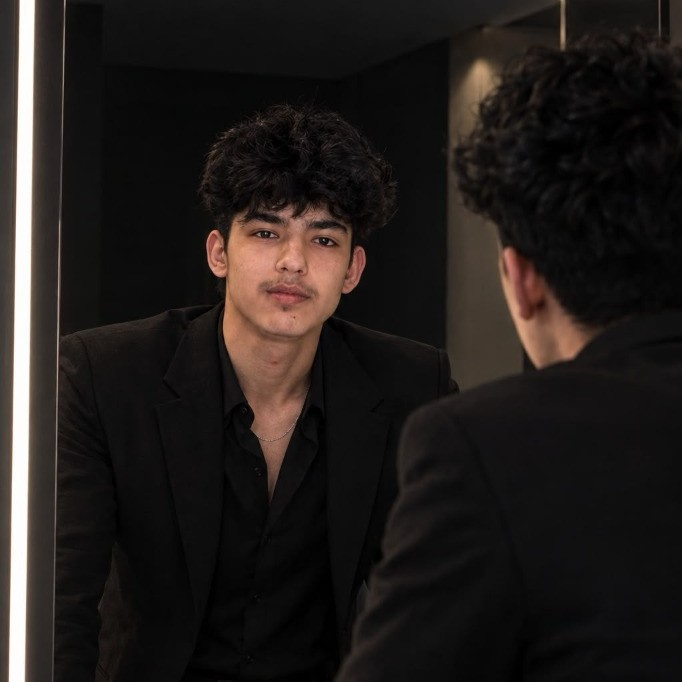
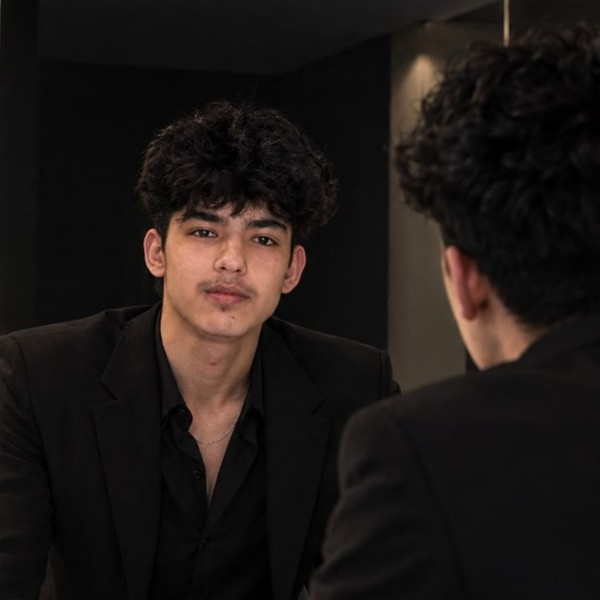
feat(team): make entire card clickable, add photo zoom lightbox, and remove white mirror strip from Nazif portrait

diff --git a/components/public/TeamMembersSection.tsx b/components/public/TeamMembersSection.tsx
@@ -7,7 +7,7 @@ import { motion, AnimatePresence } from "framer-motion";
 import {
   ArrowUpRight,
   X,
-  Sparkles,
+  ZoomIn,
 } from "lucide-react";
 import { useLanguage } from "@/lib/i18n";
 
@@ -41,6 +41,7 @@ export default function TeamMembersSection({
   const isFa = language === "fa";
 
   const [selectedMember, setSelectedMember] = useState<TeamMemberItem | null>(null);
+  const [isPhotoZoomed, setIsPhotoZoomed] = useState(false);
 
   const members = (initialMembers.length > 0 ? initialMembers : []).filter(
     (m) => m.active !== false
@@ -62,7 +63,7 @@ export default function TeamMembersSection({
         </p>
       </div>
 
-      {/* ─── 3-Column Team Grid (Clean & Minimalist) ─── */}
+      {/* ─── 3-Column Team Grid (Entire Card is Clickable) ─── */}
       <div className="grid grid-cols-1 md:grid-cols-2 lg:grid-cols-3 gap-5 sm:gap-6 items-stretch">
         {members.map((member, idx) => {
           const name = isFa ? member.name_fa || member.name : member.name;
@@ -84,7 +85,12 @@ export default function TeamMembersSection({
               whileInView={{ opacity: 1, y: 0 }}
               viewport={{ once: true }}
               transition={{ delay: idx * 0.1, duration: 0.3 }}
-              className="group relative rounded-2xl bg-[#081432]/60 hover:bg-[#081432]/95 border border-white/[0.08] hover:border-[#00D2FF]/40 p-5 sm:p-7 flex flex-col justify-between transition-all duration-300 overflow-hidden shadow-[0_4px_30px_rgba(0,0,0,0.3)] hover:shadow-[0_0_35px_rgba(0,210,255,0.18)]"
+              onClick={() => {
+                setSelectedMember(member);
+                setIsPhotoZoomed(false);
+              }}
+              title={isFa ? "برای مشاهده بیوگرافی و پروفایل کلیک کنید" : "Click to view full bio and profile"}
+              className="group relative rounded-2xl bg-[#081432]/60 hover:bg-[#081432]/95 border border-white/[0.08] hover:border-[#00D2FF]/60 p-5 sm:p-7 flex flex-col justify-between transition-all duration-300 overflow-hidden shadow-[0_4px_30px_rgba(0,0,0,0.3)] hover:shadow-[0_0_35px_rgba(0,210,255,0.25)] cursor-pointer select-none"
             >
               {/* Subtle top cyan highlight line on hover */}
               <div className="absolute top-0 right-0 left-0 h-[2px] bg-gradient-to-r from-transparent via-[#00D2FF]/60 to-transparent opacity-0 group-hover:opacity-100 transition-opacity duration-300" />
@@ -92,36 +98,24 @@ export default function TeamMembersSection({
               <div className="space-y-4">
                 {/* Top Row: Avatar & Name */}
                 <div className="flex items-start gap-4">
-                  {/* Clickable Avatar to open modal */}
-                  <button
-                    type="button"
-                    onClick={() => setSelectedMember(member)}
-                    title={isFa ? "مشاهده پروفایل و بیوگرافی کامل" : "View full profile and bio"}
-                    className="relative w-16 h-16 sm:w-18 sm:h-18 rounded-2xl overflow-hidden border border-[#00D2FF]/30 hover:border-[#00D2FF] group/avatar transition-all shrink-0 bg-[#040B20] shadow-[0_0_15px_rgba(0,210,255,0.15)] hover:shadow-[0_0_25px_rgba(0,210,255,0.4)] cursor-pointer text-left rtl:text-right"
-                  >
+                  <div className="relative w-16 h-16 sm:w-18 sm:h-18 rounded-2xl overflow-hidden border border-[#00D2FF]/30 group-hover:border-[#00D2FF] transition-all shrink-0 bg-[#040B20] shadow-[0_0_15px_rgba(0,210,255,0.15)] group-hover:shadow-[0_0_25px_rgba(0,210,255,0.4)]">
                     <Image
                       src={avatarUrl}
                       alt={name}
                       fill
                       sizes="80px"
-                      className="object-cover transition-transform duration-300 group-hover/avatar:scale-110"
+                      className="object-cover transition-transform duration-300 group-hover:scale-108"
                     />
-                    <div className="absolute inset-0 bg-[#00D2FF]/0 group-hover/avatar:bg-[#00D2FF]/15 transition-colors" />
-                  </button>
+                    <div className="absolute inset-0 bg-[#00D2FF]/0 group-hover:bg-[#00D2FF]/10 transition-colors" />
+                  </div>
 
                   <div className="min-w-0 flex-1">
                     <div className="flex items-center gap-2 flex-wrap">
-                      <button
-                        type="button"
-                        onClick={() => setSelectedMember(member)}
-                        className="text-left rtl:text-right cursor-pointer"
-                      >
-                        <h3 className="text-base sm:text-lg font-bold text-white hover:text-[#00D2FF] transition-colors truncate">
-                          {name}
-                        </h3>
-                      </button>
+                      <h3 className="text-base sm:text-lg font-bold text-white group-hover:text-[#00D2FF] transition-colors truncate">
+                        {name}
+                      </h3>
                       {member.nickname && (
-                        <span className="px-2 py-0.5 rounded-md bg-[#00D2FF]/15 text-[#00D2FF] text-[10px] sm:text-[11px] font-mono font-extrabold tracking-wider border border-[#00D2FF]/30 select-none uppercase">
+                        <span className="px-2 py-0.5 rounded-md bg-[#00D2FF]/15 text-[#00D2FF] text-[10px] sm:text-[11px] font-mono font-extrabold tracking-wider border border-[#00D2FF]/30 uppercase">
                           {member.nickname}
                         </span>
                       )}
@@ -157,16 +151,12 @@ export default function TeamMembersSection({
 
               {/* Bottom Row Action - Simple & Clean */}
               <div className="pt-4 mt-5 border-t border-white/[0.06] flex items-center justify-between">
-                <button
-                  type="button"
-                  onClick={() => setSelectedMember(member)}
-                  className="text-xs font-semibold text-[#00D2FF] hover:text-white flex items-center gap-1.5 transition-colors cursor-pointer"
-                >
+                <div className="text-xs font-semibold text-[#00D2FF] group-hover:text-white flex items-center gap-1.5 transition-colors">
                   <span>{isFa ? "مشاهده بیوگرافی کامل" : "Full Profile & Bio"}</span>
-                  <ArrowUpRight className="w-3.5 h-3.5" />
-                </button>
+                  <ArrowUpRight className="w-3.5 h-3.5 group-hover:translate-x-0.5 group-hover:-translate-y-0.5 transition-transform" />
+                </div>
 
-                <span className="text-[10px] font-mono tracking-widest text-[#94A3B8]/40 uppercase select-none">
+                <span className="text-[10px] font-mono tracking-widest text-[#94A3B8]/40 uppercase">
                   UR CLUB
                 </span>
               </div>
@@ -175,14 +165,17 @@ export default function TeamMembersSection({
         })}
       </div>
 
-      {/* ─── Detail Modal (Full Bio & Info) ─── */}
+      {/* ─── Detail Modal (Full Bio & Large Profile Image) ─── */}
       <AnimatePresence>
         {selectedMember && (
           <motion.div
             initial={{ opacity: 0 }}
             animate={{ opacity: 1 }}
             exit={{ opacity: 0 }}
-            onClick={() => setSelectedMember(null)}
+            onClick={() => {
+              setSelectedMember(null);
+              setIsPhotoZoomed(false);
+            }}
             className="fixed inset-0 z-50 bg-[#040B20]/90 backdrop-blur-xl p-4 sm:p-6 flex items-center justify-center overflow-y-auto"
           >
             <motion.div
@@ -195,8 +188,11 @@ export default function TeamMembersSection({
             >
               {/* Close Button */}
               <button
-                onClick={() => setSelectedMember(null)}
-                className="absolute top-4 sm:top-6 left-4 sm:left-6 rtl:left-4 rtl:right-auto ltr:right-4 ltr:left-auto p-2.5 rounded-full bg-white/[0.06] text-[#94A3B8] hover:text-white hover:bg-[#00D2FF]/20 transition-all cursor-pointer border border-white/[0.08]"
+                onClick={() => {
+                  setSelectedMember(null);
+                  setIsPhotoZoomed(false);
+                }}
+                className="absolute top-4 sm:top-6 left-4 sm:left-6 rtl:left-4 rtl:right-auto ltr:right-4 ltr:left-auto p-2.5 rounded-full bg-white/[0.06] text-[#94A3B8] hover:text-white hover:bg-[#00D2FF]/20 transition-all cursor-pointer border border-white/[0.08] z-10"
                 aria-label="Close"
               >
                 <X className="w-4 h-4" />
@@ -204,16 +200,25 @@ export default function TeamMembersSection({
 
               {/* Top Profile Header with Large High-Res Photo */}
               <div className="flex flex-col sm:flex-row items-center sm:items-start gap-5 sm:gap-7 pt-2">
-                {/* Large, Beautiful Portrait Image Frame */}
-                <div className="relative w-36 h-36 sm:w-44 sm:h-44 rounded-2xl overflow-hidden border-2 border-[#00D2FF] shrink-0 bg-[#040B20] shadow-[0_0_30px_rgba(0,210,255,0.35)] ring-4 ring-[#00D2FF]/15">
+                {/* Large, Beautiful Portrait Image Frame (Clickable to zoom) */}
+                <div
+                  onClick={() => setIsPhotoZoomed(true)}
+                  title={isFa ? "کلیک برای مشاهده اندازه بزرگ تصویر" : "Click to view full photo"}
+                  className="group/avatar relative w-40 h-40 sm:w-48 sm:h-48 rounded-2xl overflow-hidden border-2 border-[#00D2FF] shrink-0 bg-[#040B20] shadow-[0_0_30px_rgba(0,210,255,0.35)] ring-4 ring-[#00D2FF]/15 cursor-pointer"
+                >
                   <Image
                     src={selectedMember.avatar || "/images/default_avatar.png"}
                     alt={selectedMember.name}
                     fill
-                    sizes="200px"
-                    className="object-cover"
+                    sizes="220px"
+                    className="object-cover transition-transform duration-300 group-hover/avatar:scale-105"
                     priority
                   />
+                  <div className="absolute inset-0 bg-[#040B20]/0 group-hover/avatar:bg-[#040B20]/40 transition-colors flex items-center justify-center opacity-0 group-hover/avatar:opacity-100">
+                    <div className="p-2 rounded-full bg-[#00D2FF] text-[#040B20] shadow-lg">
+                      <ZoomIn className="w-5 h-5" />
+                    </div>
+                  </div>
                 </div>
 
                 {/* Name, Role & Status Info */}
@@ -302,6 +307,52 @@ export default function TeamMembersSection({
                 </div>
               </div>
             </motion.div>
+          </motion.div>
+        )}
+      </AnimatePresence>
+
+      {/* ─── Fullscreen Photo Zoom Lightbox ─── */}
+      <AnimatePresence>
+        {isPhotoZoomed && selectedMember && (
+          <motion.div
+            initial={{ opacity: 0 }}
+            animate={{ opacity: 1 }}
+            exit={{ opacity: 0 }}
+            onClick={() => setIsPhotoZoomed(false)}
+            className="fixed inset-0 z-[60] bg-black/95 backdrop-blur-2xl p-4 flex flex-col items-center justify-center cursor-zoom-out"
+          >
+            <button
+              onClick={() => setIsPhotoZoomed(false)}
+              className="absolute top-5 right-5 p-3 rounded-full bg-white/10 hover:bg-white/20 text-white transition-all cursor-pointer"
+              aria-label="Close photo"
+            >
+              <X className="w-6 h-6" />
+            </button>
+
+            <motion.div
+              initial={{ scale: 0.9 }}
+              animate={{ scale: 1 }}
+              exit={{ scale: 0.9 }}
+              className="relative max-w-lg w-full aspect-square rounded-3xl overflow-hidden border-2 border-[#00D2FF]/50 shadow-[0_0_50px_rgba(0,210,255,0.4)]"
+            >
+              <Image
+                src={selectedMember.avatar || "/images/default_avatar.png"}
+                alt={selectedMember.name}
+                fill
+                sizes="500px"
+                className="object-cover"
+                priority
+              />
+            </motion.div>
+
+            <div className="mt-4 text-center">
+              <h3 className="text-lg font-bold text-white">
+                {isFa ? selectedMember.name_fa || selectedMember.name : selectedMember.name}
+              </h3>
+              <p className="text-xs text-[#00D2FF] mt-0.5">
+                {isFa ? selectedMember.role_fa || selectedMember.role : selectedMember.role}
+              </p>
+            </div>
           </motion.div>
         )}
       </AnimatePresence>
